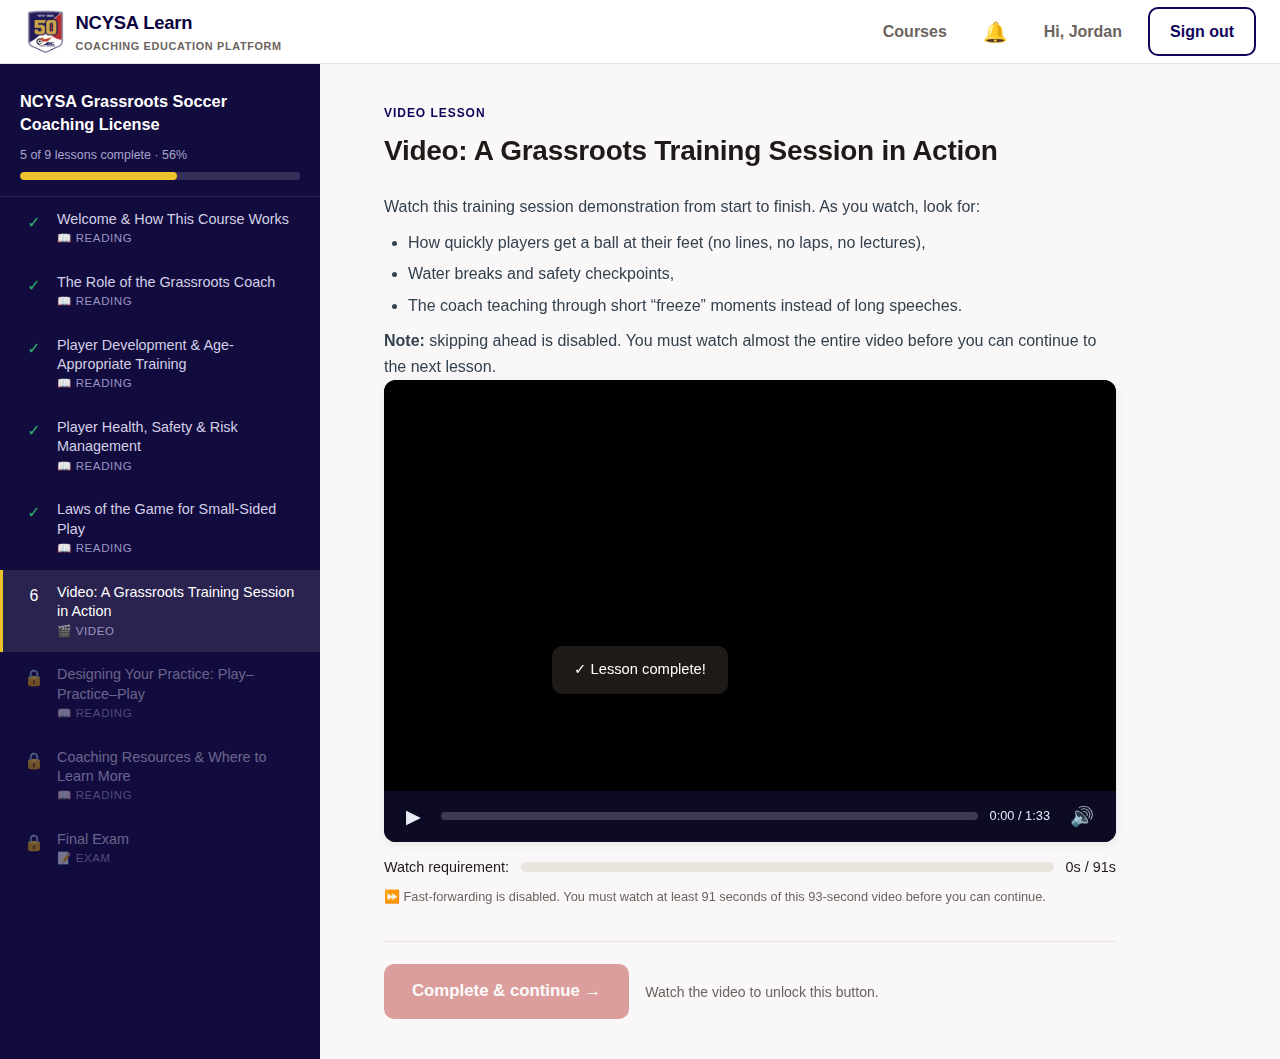
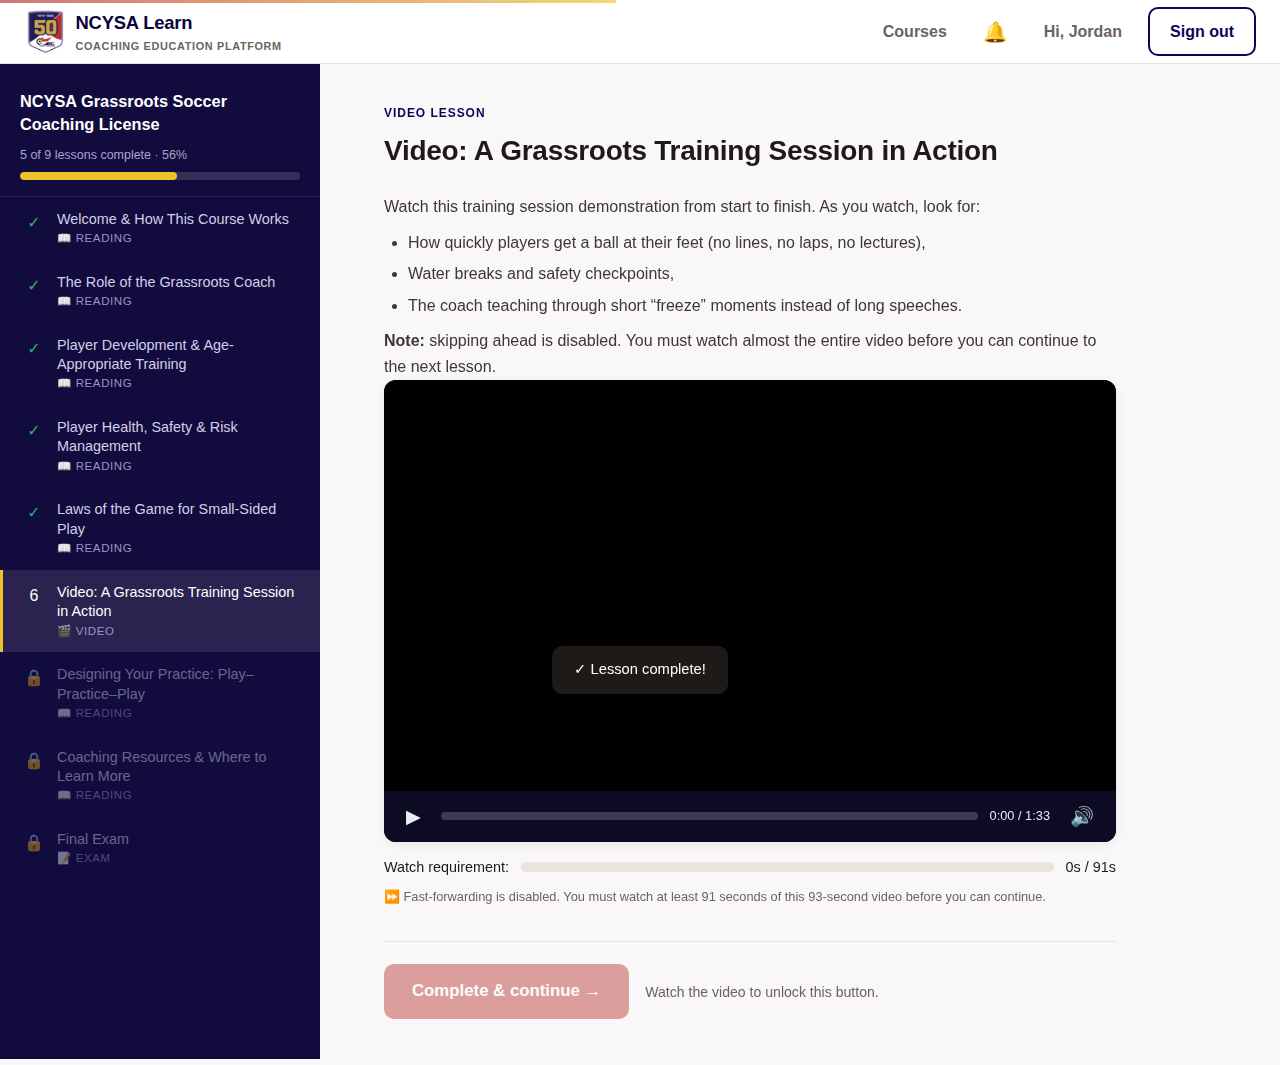
Item 10: Loading states, smooth transitions, accessibility pass
- Loading: top progress bar on every route change, plus a delayed spinner for
  slow loads (no flicker on instant local data).
- Transitions: subtle fade-slide on views and lesson content so navigation
  never jumps; all motion respects prefers-reduced-motion.
- Accessibility: skip-to-content link, main landmark, visible :focus-visible
  outlines on all interactive elements, aria-labels on icon-only controls (bell,
  video play/mute) and the video element, and every image has alt text.
  Verified keyboard navigation (focus + Enter), and all key text/background
  pairs meet WCAG AA contrast (>=4.5:1).

Claude-Session: https://claude.ai/code/session_018u9gfGCRwBF7xDumhssY86

diff --git a/index.html b/index.html
@@ -453,6 +453,53 @@ a:hover { text-decoration: underline; }
 .date-flt { display: inline-flex; align-items: center; gap: 6px; font-size: 0.82rem; color: var(--ink-soft); }
 .filter-count { margin-top: 10px; font-size: 0.82rem; color: var(--ink-soft); }
 
+/* ============================================================
+   Item 10 — loading states, transitions, accessibility
+   ============================================================ */
+
+/* Top route-loading bar */
+#loadbar {
+  position: fixed; top: 0; left: 0; height: 3px; width: 0;
+  background: linear-gradient(90deg, var(--accent), var(--gold));
+  z-index: 100; opacity: 0; transition: width 0.3s ease, opacity 0.3s ease;
+}
+#loadbar.active { opacity: 1; }
+
+/* Skip-to-content link (appears on keyboard focus) */
+.skip-link {
+  position: absolute; left: 12px; top: -48px; z-index: 200;
+  background: var(--brand); color: #fff; padding: 10px 16px; border-radius: 0 0 8px 8px;
+  font-weight: 700; transition: top 0.15s ease;
+}
+.skip-link:focus { top: 0; text-decoration: none; }
+
+/* Smooth content transitions between views/lessons */
+@keyframes fadeSlide { from { opacity: 0; transform: translateY(6px); } to { opacity: 1; transform: none; } }
+.lesson-pane, .section, .admin-wrap, .auth-wrap, .certificate, .notif-list, .resume-strip, .role-hero {
+  animation: fadeSlide 0.25s ease both;
+}
+.lesson-content { animation: fadeSlide 0.22s ease both; }
+
+/* Inline loading spinner */
+.loading-state { display: flex; flex-direction: column; align-items: center; gap: 14px; padding: 80px 20px; color: var(--ink-soft); }
+.spinner { width: 38px; height: 38px; border: 4px solid var(--line); border-top-color: var(--accent); border-radius: 50%; animation: spin 0.8s linear infinite; }
+@keyframes spin { to { transform: rotate(360deg); } }
+
+/* Visible keyboard focus everywhere (doesn't affect mouse users) */
+a:focus-visible, button:focus-visible, input:focus-visible, select:focus-visible,
+textarea:focus-visible, .lesson-item:focus-visible, .role-card:focus-visible, .quiz-opt:focus-within {
+  outline: 3px solid var(--gold);
+  outline-offset: 2px;
+  border-radius: 6px;
+}
+.curriculum .lesson-item:focus-visible { outline-offset: -3px; }
+
+@media (prefers-reduced-motion: reduce) {
+  #loadbar { transition: opacity 0.15s ease; }
+  .lesson-pane, .section, .admin-wrap, .auth-wrap, .certificate, .notif-list,
+  .resume-strip, .role-hero, .lesson-content, .spinner { animation: none; }
+}
+
 
 /* ---------- demo bar ---------- */
 .demo-bar {
@@ -1186,7 +1233,7 @@ function renderNav() {
     <a class="navlink nav-courses" href="#/courses">Courses</a>
     ${user ? `
       ${user.role === 'admin' ? '<a class="navlink nav-dashboard" href="#/admin">NCYSA Dashboard</a>' : ''}
-      <button class="bell" id="bellBtn" title="Notifications">🔔${me.unread ? `<span class="dot">${me.unread}</span>` : ''}</button>
+      <button class="bell" id="bellBtn" title="Notifications" aria-label="Notifications${me.unread ? ` (${me.unread} unread)` : ''}">🔔${me.unread ? `<span class="dot">${me.unread}</span>` : ''}</button>
       <span class="navlink greeting" style="cursor:default">Hi, ${esc(user.name.split(' ')[0])}</span>
       <button class="btn btn-ghost" id="logoutBtn">Sign out</button>
     ` : `
@@ -1533,15 +1580,15 @@ function renderVideoLesson(pane, course, lesson, lp) {
     ${lessonHeader(lesson)}
     <div class="lesson-content">${lesson.html}</div>
     <div class="video-shell">
-      <video id="lessonVideo" preload="metadata" playsinline>
+      <video id="lessonVideo" preload="metadata" playsinline aria-label="Lesson video: ${esc(lesson.title)}">
         ${lesson.videoUrl ? `<source src="${lesson.videoUrl}" type="video/mp4" />` : ''}
         ${lesson.videoUrlWebm ? `<source src="${lesson.videoUrlWebm}" type="video/webm" />` : ''}
       </video>
       <div class="v-controls">
-        <button id="playBtn" title="Play / pause">▶</button>
+        <button id="playBtn" title="Play / pause" aria-label="Play or pause the video">▶</button>
         <div class="v-track"><div class="v-fill" id="vFill"></div></div>
         <span class="v-time" id="vTime">0:00 / ${fmtTime(lesson.durationSeconds)}</span>
-        <button id="muteBtn" title="Mute / unmute">🔊</button>
+        <button id="muteBtn" title="Mute / unmute" aria-label="Mute or unmute">🔊</button>
       </div>
     </div>
     <div class="watch-meter">
@@ -2168,16 +2215,30 @@ const routes = [
   { re: /^#\/admin\/courses$/, fn: viewCourseAdmin },
 ];
 
+function startLoading() {
+  const bar = document.getElementById('loadbar');
+  if (bar) { bar.classList.add('active'); bar.style.width = '45%'; requestAnimationFrame(() => (bar.style.width = '75%')); }
+  // Show a spinner only if the view is slow to load (avoids flicker on instant/local data).
+  return setTimeout(() => { app.innerHTML = '<div class="loading-state" role="status" aria-live="polite"><div class="spinner"></div><span>Loading…</span></div>'; }, 200);
+}
+function stopLoading(spinnerTimer) {
+  clearTimeout(spinnerTimer);
+  const bar = document.getElementById('loadbar');
+  if (bar) { bar.style.width = '100%'; setTimeout(() => { bar.classList.remove('active'); bar.style.width = '0'; }, 250); }
+}
+
 async function route() {
   if (videoTracker) { videoTracker.flush(); videoTracker = null; }
   const hash = location.hash || '#/';
   for (const r of routes) {
     const m = hash.match(r.re);
     if (m) {
+      const spinnerTimer = startLoading();
       try { await r.fn(m); } catch (e) {
-        if (e.status === 401) { location.hash = '#/login'; return; }
+        if (e.status === 401) { stopLoading(spinnerTimer); location.hash = '#/login'; return; }
         app.innerHTML = `<div class="section"><div class="card"><h2>Something went wrong</h2><p class="sub">${esc(e.message)}</p></div></div>`;
       }
+      stopLoading(spinnerTimer);
       window.scrollTo(0, 0);
       return;
     }
@@ -2187,6 +2248,16 @@ async function route() {
 
 window.addEventListener('hashchange', route);
 (async function init() {
+  // Accessibility + loading chrome (added once, works in product and demo builds).
+  if (!document.getElementById('loadbar')) {
+    const bar = document.createElement('div'); bar.id = 'loadbar'; document.body.appendChild(bar);
+    const skip = document.createElement('a'); skip.href = '#main'; skip.className = 'skip-link'; skip.textContent = 'Skip to content';
+    document.body.insertBefore(skip, document.body.firstChild);
+    app.id = 'app'; app.setAttribute('tabindex', '-1');
+    if (!app.getAttribute('id')) app.id = 'app';
+    app.setAttribute('role', 'main');
+    const anchor = document.createElement('span'); anchor.id = 'main'; app.parentNode.insertBefore(anchor, app);
+  }
   await refreshMe();
   await route();
 })();

diff --git a/public/app.js b/public/app.js
@@ -80,7 +80,7 @@ function renderNav() {
     <a class="navlink nav-courses" href="#/courses">Courses</a>
     ${user ? `
       ${user.role === 'admin' ? '<a class="navlink nav-dashboard" href="#/admin">NCYSA Dashboard</a>' : ''}
-      <button class="bell" id="bellBtn" title="Notifications">🔔${me.unread ? `<span class="dot">${me.unread}</span>` : ''}</button>
+      <button class="bell" id="bellBtn" title="Notifications" aria-label="Notifications${me.unread ? ` (${me.unread} unread)` : ''}">🔔${me.unread ? `<span class="dot">${me.unread}</span>` : ''}</button>
       <span class="navlink greeting" style="cursor:default">Hi, ${esc(user.name.split(' ')[0])}</span>
       <button class="btn btn-ghost" id="logoutBtn">Sign out</button>
     ` : `
@@ -427,15 +427,15 @@ function renderVideoLesson(pane, course, lesson, lp) {
     ${lessonHeader(lesson)}
     <div class="lesson-content">${lesson.html}</div>
     <div class="video-shell">
-      <video id="lessonVideo" preload="metadata" playsinline>
+      <video id="lessonVideo" preload="metadata" playsinline aria-label="Lesson video: ${esc(lesson.title)}">
         ${lesson.videoUrl ? `<source src="${lesson.videoUrl}" type="video/mp4" />` : ''}
         ${lesson.videoUrlWebm ? `<source src="${lesson.videoUrlWebm}" type="video/webm" />` : ''}
       </video>
       <div class="v-controls">
-        <button id="playBtn" title="Play / pause">▶</button>
+        <button id="playBtn" title="Play / pause" aria-label="Play or pause the video">▶</button>
         <div class="v-track"><div class="v-fill" id="vFill"></div></div>
         <span class="v-time" id="vTime">0:00 / ${fmtTime(lesson.durationSeconds)}</span>
-        <button id="muteBtn" title="Mute / unmute">🔊</button>
+        <button id="muteBtn" title="Mute / unmute" aria-label="Mute or unmute">🔊</button>
       </div>
     </div>
     <div class="watch-meter">
@@ -1062,16 +1062,30 @@ const routes = [
   { re: /^#\/admin\/courses$/, fn: viewCourseAdmin },
 ];
 
+function startLoading() {
+  const bar = document.getElementById('loadbar');
+  if (bar) { bar.classList.add('active'); bar.style.width = '45%'; requestAnimationFrame(() => (bar.style.width = '75%')); }
+  // Show a spinner only if the view is slow to load (avoids flicker on instant/local data).
+  return setTimeout(() => { app.innerHTML = '<div class="loading-state" role="status" aria-live="polite"><div class="spinner"></div><span>Loading…</span></div>'; }, 200);
+}
+function stopLoading(spinnerTimer) {
+  clearTimeout(spinnerTimer);
+  const bar = document.getElementById('loadbar');
+  if (bar) { bar.style.width = '100%'; setTimeout(() => { bar.classList.remove('active'); bar.style.width = '0'; }, 250); }
+}
+
 async function route() {
   if (videoTracker) { videoTracker.flush(); videoTracker = null; }
   const hash = location.hash || '#/';
   for (const r of routes) {
     const m = hash.match(r.re);
     if (m) {
+      const spinnerTimer = startLoading();
       try { await r.fn(m); } catch (e) {
-        if (e.status === 401) { location.hash = '#/login'; return; }
+        if (e.status === 401) { stopLoading(spinnerTimer); location.hash = '#/login'; return; }
         app.innerHTML = `<div class="section"><div class="card"><h2>Something went wrong</h2><p class="sub">${esc(e.message)}</p></div></div>`;
       }
+      stopLoading(spinnerTimer);
       window.scrollTo(0, 0);
       return;
     }
@@ -1081,6 +1095,16 @@ async function route() {
 
 window.addEventListener('hashchange', route);
 (async function init() {
+  // Accessibility + loading chrome (added once, works in product and demo builds).
+  if (!document.getElementById('loadbar')) {
+    const bar = document.createElement('div'); bar.id = 'loadbar'; document.body.appendChild(bar);
+    const skip = document.createElement('a'); skip.href = '#main'; skip.className = 'skip-link'; skip.textContent = 'Skip to content';
+    document.body.insertBefore(skip, document.body.firstChild);
+    app.id = 'app'; app.setAttribute('tabindex', '-1');
+    if (!app.getAttribute('id')) app.id = 'app';
+    app.setAttribute('role', 'main');
+    const anchor = document.createElement('span'); anchor.id = 'main'; app.parentNode.insertBefore(anchor, app);
+  }
   await refreshMe();
   await route();
 })();

diff --git a/public/styles.css b/public/styles.css
@@ -431,3 +431,50 @@ a:hover { text-decoration: underline; }
 .filter-bar #fltSearch { flex: 1; min-width: 180px; }
 .date-flt { display: inline-flex; align-items: center; gap: 6px; font-size: 0.82rem; color: var(--ink-soft); }
 .filter-count { margin-top: 10px; font-size: 0.82rem; color: var(--ink-soft); }
+
+/* ============================================================
+   Item 10 — loading states, transitions, accessibility
+   ============================================================ */
+
+/* Top route-loading bar */
+#loadbar {
+  position: fixed; top: 0; left: 0; height: 3px; width: 0;
+  background: linear-gradient(90deg, var(--accent), var(--gold));
+  z-index: 100; opacity: 0; transition: width 0.3s ease, opacity 0.3s ease;
+}
+#loadbar.active { opacity: 1; }
+
+/* Skip-to-content link (appears on keyboard focus) */
+.skip-link {
+  position: absolute; left: 12px; top: -48px; z-index: 200;
+  background: var(--brand); color: #fff; padding: 10px 16px; border-radius: 0 0 8px 8px;
+  font-weight: 700; transition: top 0.15s ease;
+}
+.skip-link:focus { top: 0; text-decoration: none; }
+
+/* Smooth content transitions between views/lessons */
+@keyframes fadeSlide { from { opacity: 0; transform: translateY(6px); } to { opacity: 1; transform: none; } }
+.lesson-pane, .section, .admin-wrap, .auth-wrap, .certificate, .notif-list, .resume-strip, .role-hero {
+  animation: fadeSlide 0.25s ease both;
+}
+.lesson-content { animation: fadeSlide 0.22s ease both; }
+
+/* Inline loading spinner */
+.loading-state { display: flex; flex-direction: column; align-items: center; gap: 14px; padding: 80px 20px; color: var(--ink-soft); }
+.spinner { width: 38px; height: 38px; border: 4px solid var(--line); border-top-color: var(--accent); border-radius: 50%; animation: spin 0.8s linear infinite; }
+@keyframes spin { to { transform: rotate(360deg); } }
+
+/* Visible keyboard focus everywhere (doesn't affect mouse users) */
+a:focus-visible, button:focus-visible, input:focus-visible, select:focus-visible,
+textarea:focus-visible, .lesson-item:focus-visible, .role-card:focus-visible, .quiz-opt:focus-within {
+  outline: 3px solid var(--gold);
+  outline-offset: 2px;
+  border-radius: 6px;
+}
+.curriculum .lesson-item:focus-visible { outline-offset: -3px; }
+
+@media (prefers-reduced-motion: reduce) {
+  #loadbar { transition: opacity 0.15s ease; }
+  .lesson-pane, .section, .admin-wrap, .auth-wrap, .certificate, .notif-list,
+  .resume-strip, .role-hero, .lesson-content, .spinner { animation: none; }
+}
